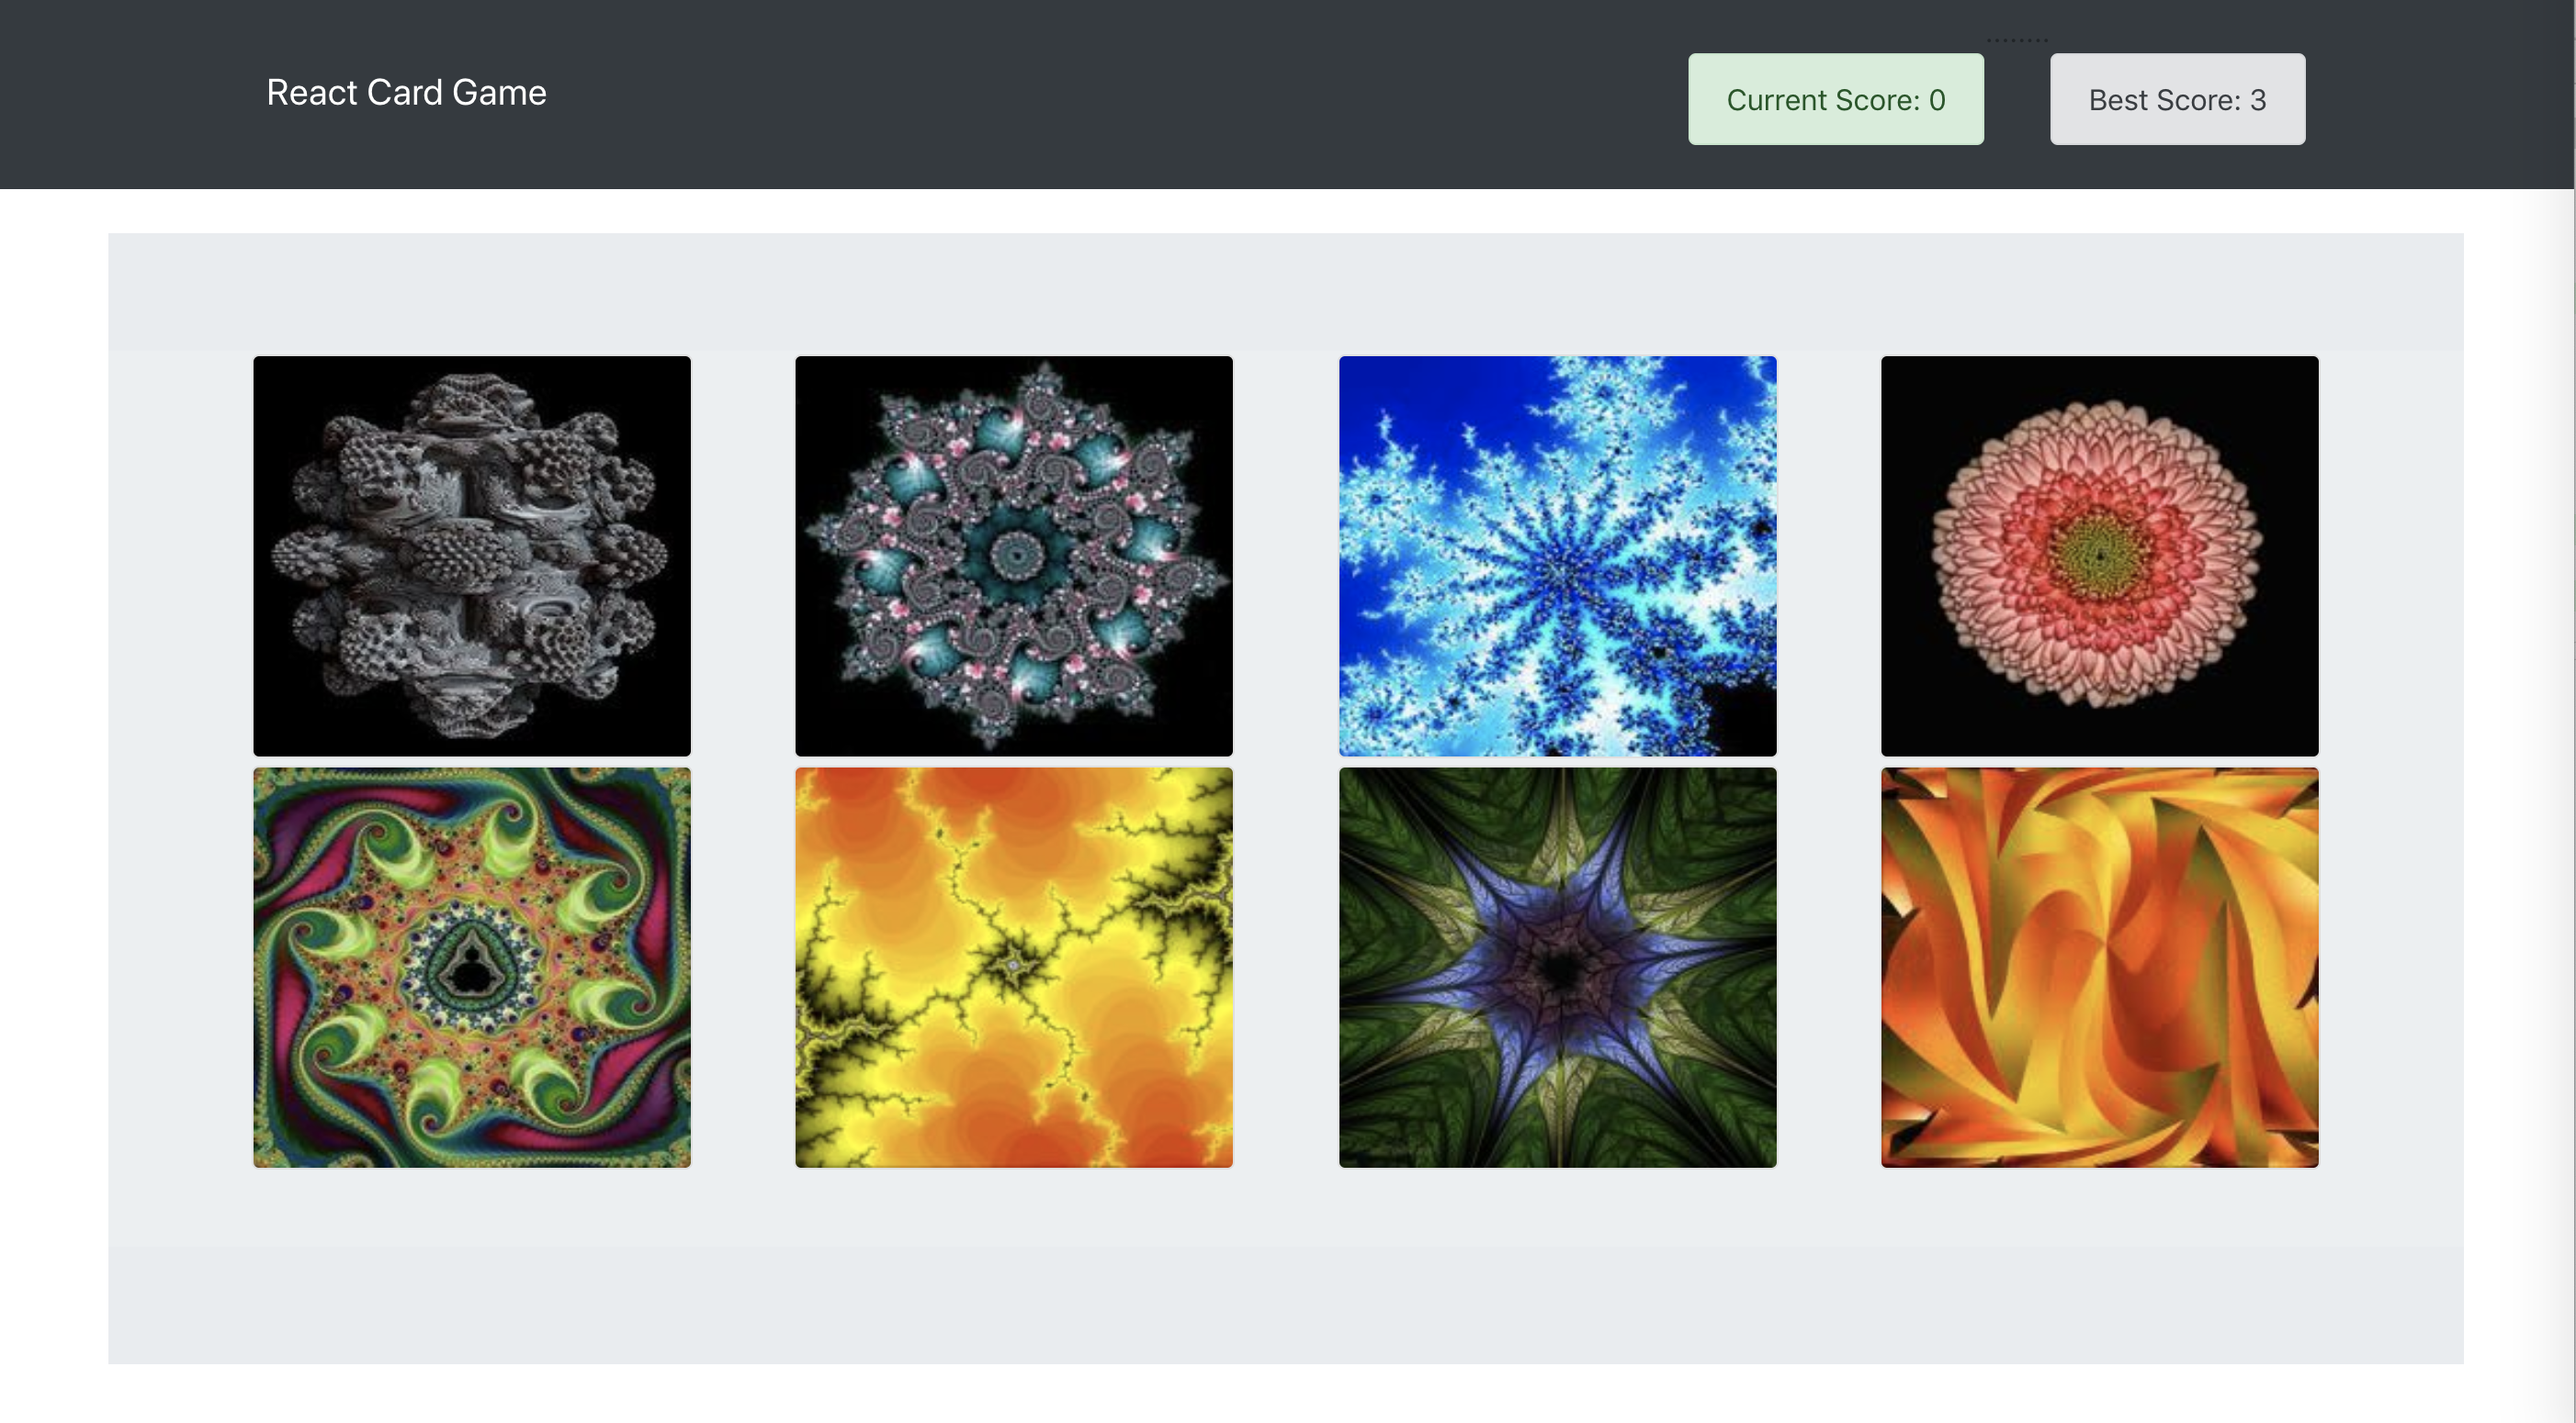
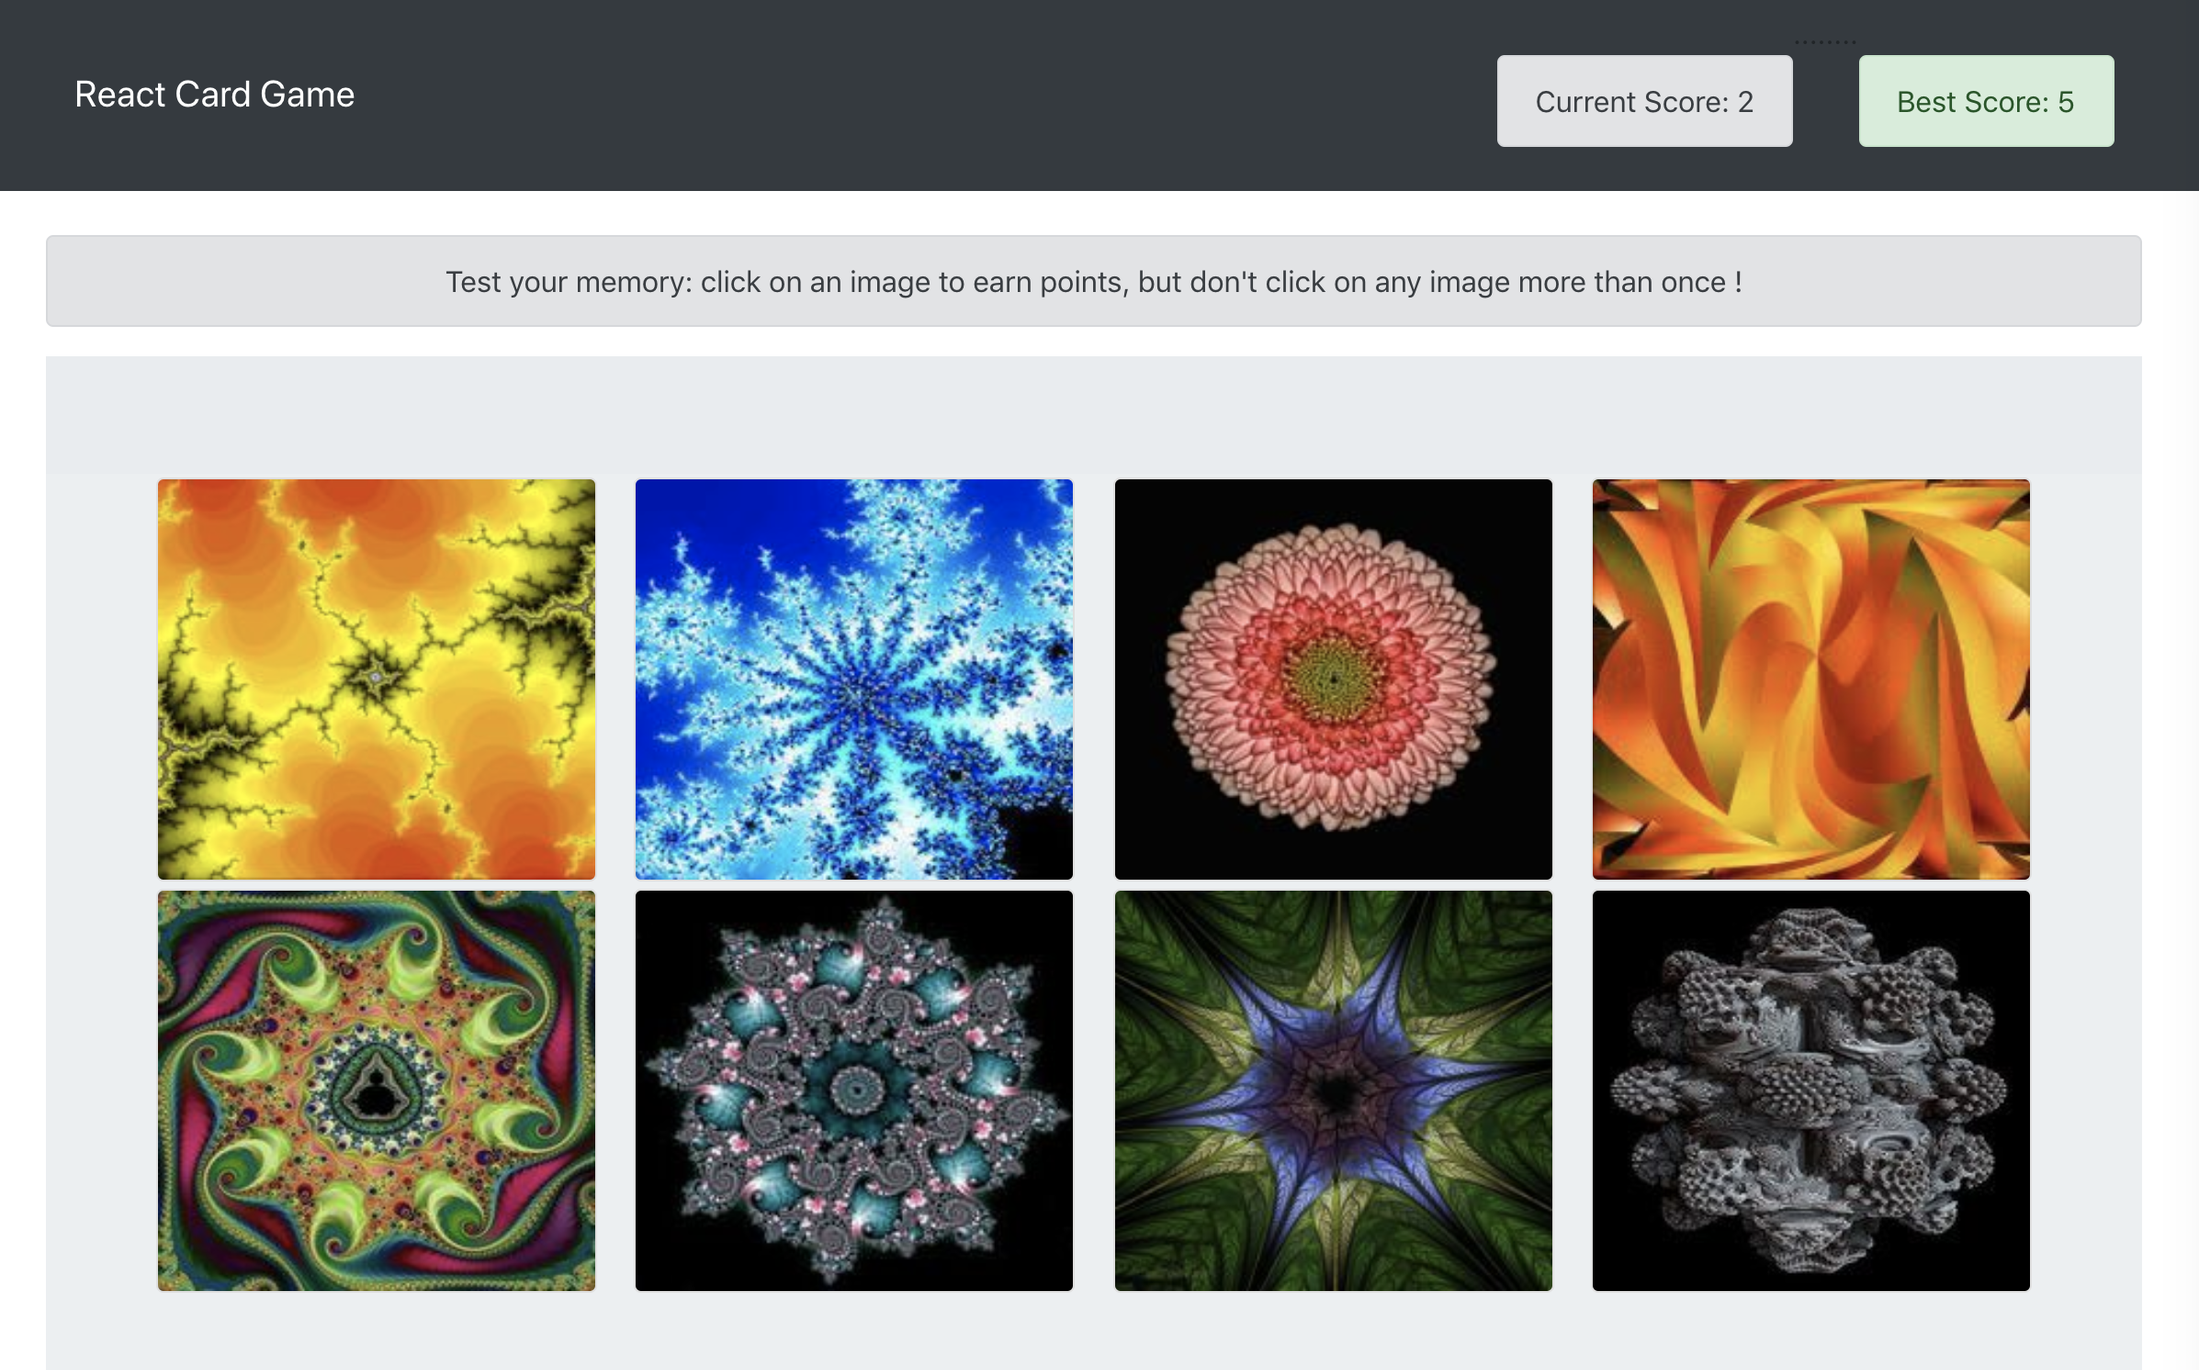
readme

diff --git a/src/App.js b/src/App.js
@@ -87,6 +87,19 @@ class App extends Component {
       <div>
         <Navbar currentScore={this.state.currentScore} maxScore={this.state.maxScore}/>    
           <br></br>
+
+            <div className="row">
+                <div className="col">
+                </div>
+                <div className="col-11">
+                <div class="alert alert-secondary" role="alert" id="message">
+                       Test your memory: click on an image to earn points but don't click on any image more than once !
+                </div>
+                </div>
+                <div className="col">
+                </div>
+            </div>
+
             <div className="row">
                 <div className="col">
                 </div>
@@ -94,7 +107,8 @@ class App extends Component {
                 <div className="col-11">
                 <div className="jumbotron jumbotron-fluid">
                   <div className="imageContainer">
-
+                        
+                       
                         {this.state.linksArray.shuffledDeck}
                               
                   </div>

diff --git a/src/components/navbar/index.js b/src/components/navbar/index.js
@@ -14,7 +14,7 @@ return (
                 
             <li className="nav-item">
                 <br></br>
-                <div className="alert alert-success" role="alert">
+                <div className="alert alert-secondary" role="alert">
                       Current Score:  {props.currentScore}   
                 </div>
             </li>
@@ -25,7 +25,7 @@ return (
 
             <li className="nav-item">
                 <br></br>
-                <div className="alert alert-secondary" role="alert">
+                <div className="alert alert-success" role="alert">
                       Best Score:  {props.maxScore}    
                 </div>
             </li>

diff --git a/src/App.css b/src/App.css
@@ -16,4 +16,8 @@
   overflow: auto;
 }
 
+#message{
+  text-align: center;
+}
+
 

diff --git a/README.md b/README.md
@@ -1,4 +1,4 @@
-This is a memory game built with REACT. The objective is to click on every image only once.  Everytime you click on an image the deck shuffles, you earn one point and all the images appear in different loctions.  If you click on an image more than once you loose. Your current score and the maximum score are tracked. 
+This is a memory game built with REACT. The objective is to click on every image only once.  Everytime you click on an image the deck shuffles, you earn one point and all the images appear in different loctions.  If you click on an image more than once you loose. Your current score and the best ever score are tracked. 
 
 This app mimics: 
 https://clicky-game.netlify.com/
